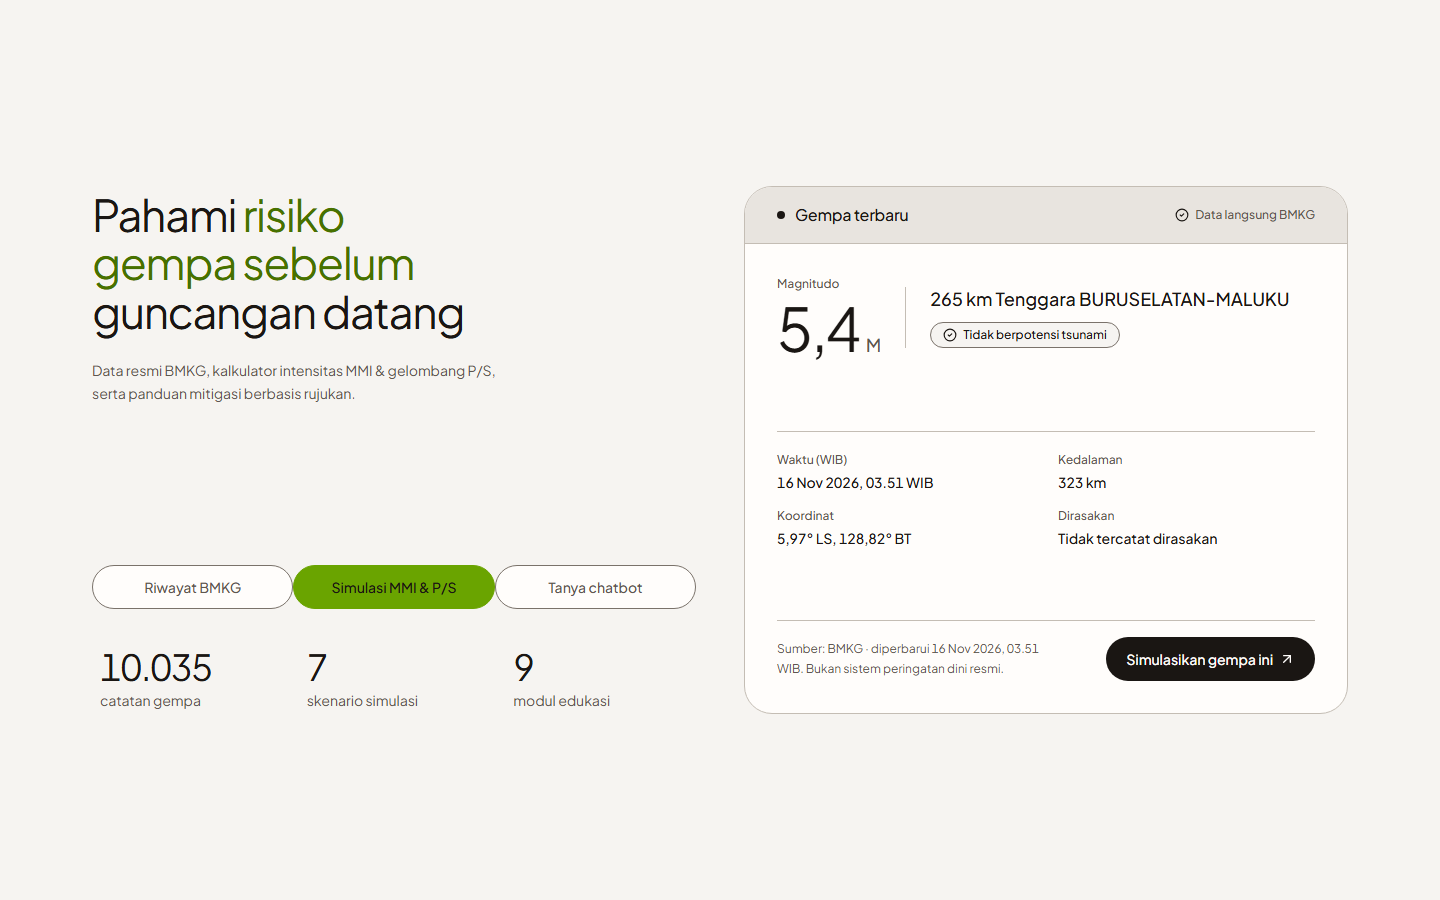
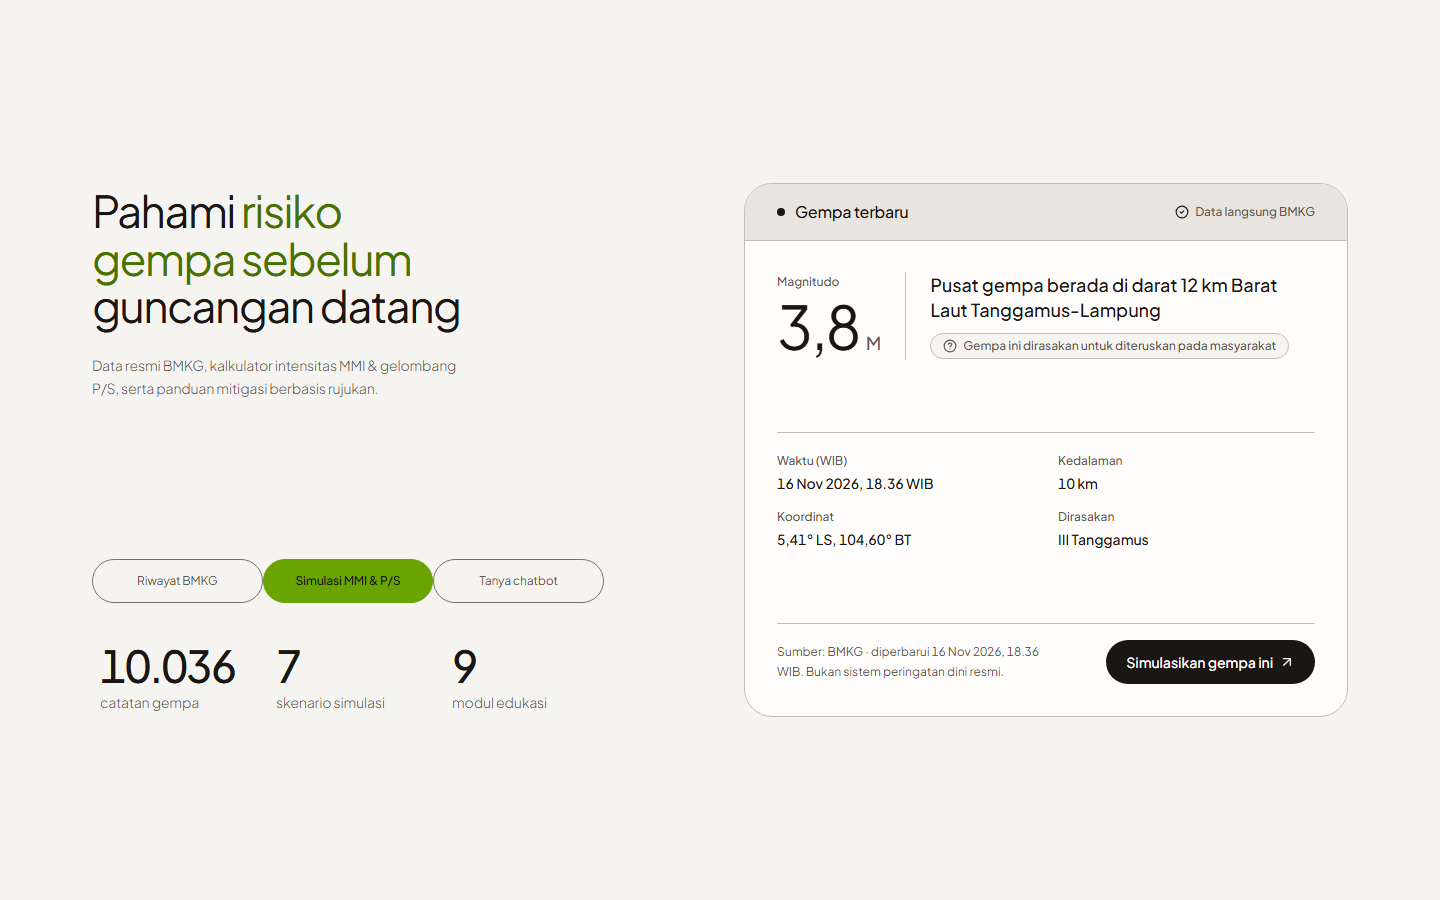
style(beranda): haluskan bobot huruf, pill transparan, dan metrik di section 2

diff --git a/src/app/page.tsx b/src/app/page.tsx
@@ -359,7 +359,7 @@ export default async function HomePage() {
               <div>
                 <h2
                   id="ringkasan-sigap-heading"
-                  className="max-w-[32rem] text-3xl sm:text-4xl lg:text-[2.75rem] font-normal leading-[1.1] tracking-[-0.03em] text-[var(--color-text-primary)]"
+                  className="max-w-[32rem] text-3xl sm:text-4xl lg:text-[2.75rem] font-normal leading-[1.08] tracking-[-0.035em] text-[var(--color-text-primary)]"
                 >
                   Pahami{" "}
                   <span className="text-[var(--color-primary-strong)]">
@@ -368,13 +368,13 @@ export default async function HomePage() {
                   </span>
                   <br className="hidden lg:inline" /> guncangan datang
                 </h2>
-                <p className="mt-5 sm:mt-6 max-w-[40ch] text-sm leading-relaxed text-[var(--color-text-secondary)]">
+                <p className="mt-5 sm:mt-6 max-w-[38ch] text-sm font-light leading-relaxed tracking-[-0.01em] text-[var(--color-text-secondary)]">
                   Data resmi BMKG, kalkulator intensitas MMI &amp; gelombang P/S,
                   serta panduan mitigasi berbasis rujukan.
                 </p>
               </div>
 
-              <div className="space-y-8 sm:space-y-10">
+              <div className="w-full sm:max-w-[32rem] space-y-8 sm:space-y-10">
                 <div className="flex flex-wrap gap-2 sm:grid sm:grid-cols-3 sm:gap-0">
                   {[
                     { href: "/riwayat", label: "Riwayat BMKG" },
@@ -384,7 +384,7 @@ export default async function HomePage() {
                     <Link
                       key={href}
                       href={href}
-                      className="inline-flex items-center justify-center min-h-[44px] sm:w-full rounded-full border border-[var(--color-border-strong)] bg-[var(--color-surface-raised)] px-5 sm:px-3 text-xs sm:text-sm font-medium text-[var(--color-text-secondary)] whitespace-nowrap hover:relative hover:z-10 hover:bg-[var(--color-primary)] hover:border-[var(--color-primary)] hover:text-[var(--color-on-primary)] transition-colors motion-reduce:transition-none focus-visible:relative focus-visible:z-20 focus-visible:outline-2 focus-visible:outline-offset-2 focus-visible:outline-[var(--color-primary-strong)]"
+                      className="inline-flex items-center justify-center min-h-[44px] sm:w-full rounded-full border border-[var(--color-border-strong)] bg-transparent px-5 sm:px-3 text-xs font-normal tracking-[-0.01em] text-[var(--color-text-secondary)] whitespace-nowrap hover:relative hover:z-10 hover:bg-[var(--color-primary)] hover:border-[var(--color-primary)] hover:text-[var(--color-on-primary)] hover:font-medium transition-colors motion-reduce:transition-none focus-visible:relative focus-visible:z-20 focus-visible:outline-2 focus-visible:outline-offset-2 focus-visible:outline-[var(--color-primary-strong)]"
                     >
                       {label}
                     </Link>
@@ -407,10 +407,10 @@ export default async function HomePage() {
                     },
                   ].map(({ value, label }) => (
                     <div key={label} className="space-y-1.5 min-w-0 sm:pl-2">
-                      <dd className="text-2xl sm:text-4xl font-normal tracking-[-0.03em] leading-none text-[var(--color-text-primary)] tnum">
+                      <dd className="text-2xl sm:text-4xl lg:text-[2.75rem] font-medium tracking-[-0.04em] leading-none text-[var(--color-text-primary)] tnum">
                         {value}
                       </dd>
-                      <dt className="text-xs sm:text-sm leading-snug text-[var(--color-text-secondary)]">
+                      <dt className="text-xs sm:text-sm font-light leading-snug tracking-[-0.01em] text-[var(--color-text-secondary)]">
                         {label}
                       </dt>
                     </div>
